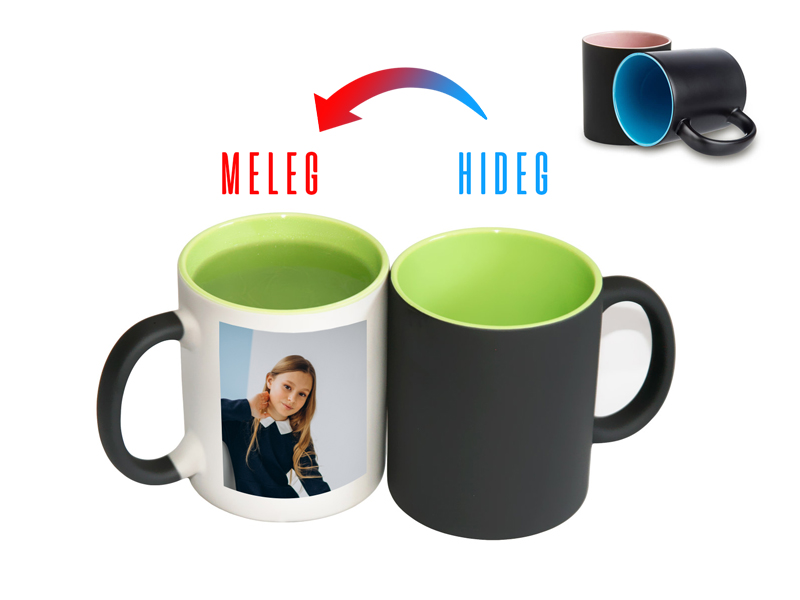
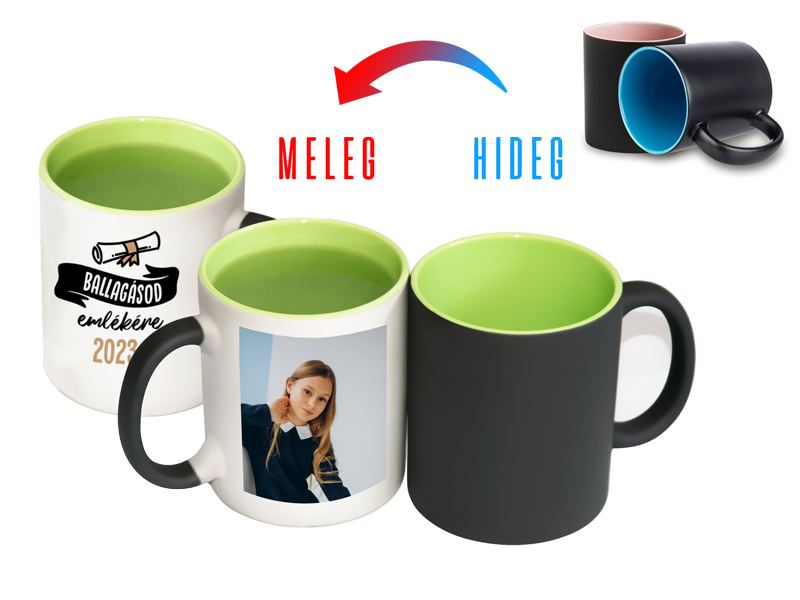
refresh

diff --git a/index.html b/index.html
@@ -54,6 +54,7 @@
         <h4>Fényképes bögre</h4>
         <p class="product__text">Fehér színű, kerámia bögre</p>
         <p>Egyik oldalán grafika, másik oldalán fotó</p>
+        <P class="small-text">(Felirat nélkül is kérhető!)</p>
         <p>300 ml</p><br>
       </div>
 
@@ -71,9 +72,10 @@
         <img class="product__pic" src="assets/magic_mug.jpg" alt="Varázsbögre">
         <h4>Varázsbögre</h4>
         <p class="product__text">Kék | Rózsaszín | Zöld</p>
-        <p>Egyik oldalán grafika, másikon fotó</p>
+        <p>Egyik oldalán felirat, másikon fotó</p>
+        <p class="small-text">(Felirat nélkül is kérhető!)</p>
         <p>300 ml</p>
-        <p>Külseje matt fekete,</p>
+        <p>Külseje matt fekete, belsesjének színe választható</p>
         <p>magas hő hatására kifehéredik és láthatóvá válik a minta</p>
       </div>
 
@@ -95,7 +97,7 @@
         <img class="product__pic" src="assets/puzzle.jpg" alt="Kirakó">
         <h4>Ballagási szalag</h4>
         <p class="product__text">10 cm széles és kb. 150 cm hosszú</p>
-        <p>Egyik felén ballagási emlék mintájú fotóval,</p>
+        <p>Egyik felén fotóval és felirattal,</p>
         <p>másikon idézettel</p>
         <p class="small-text">(Névvel ellátva is kérhető, saját idézet is megadható!)</p>
       </div>
